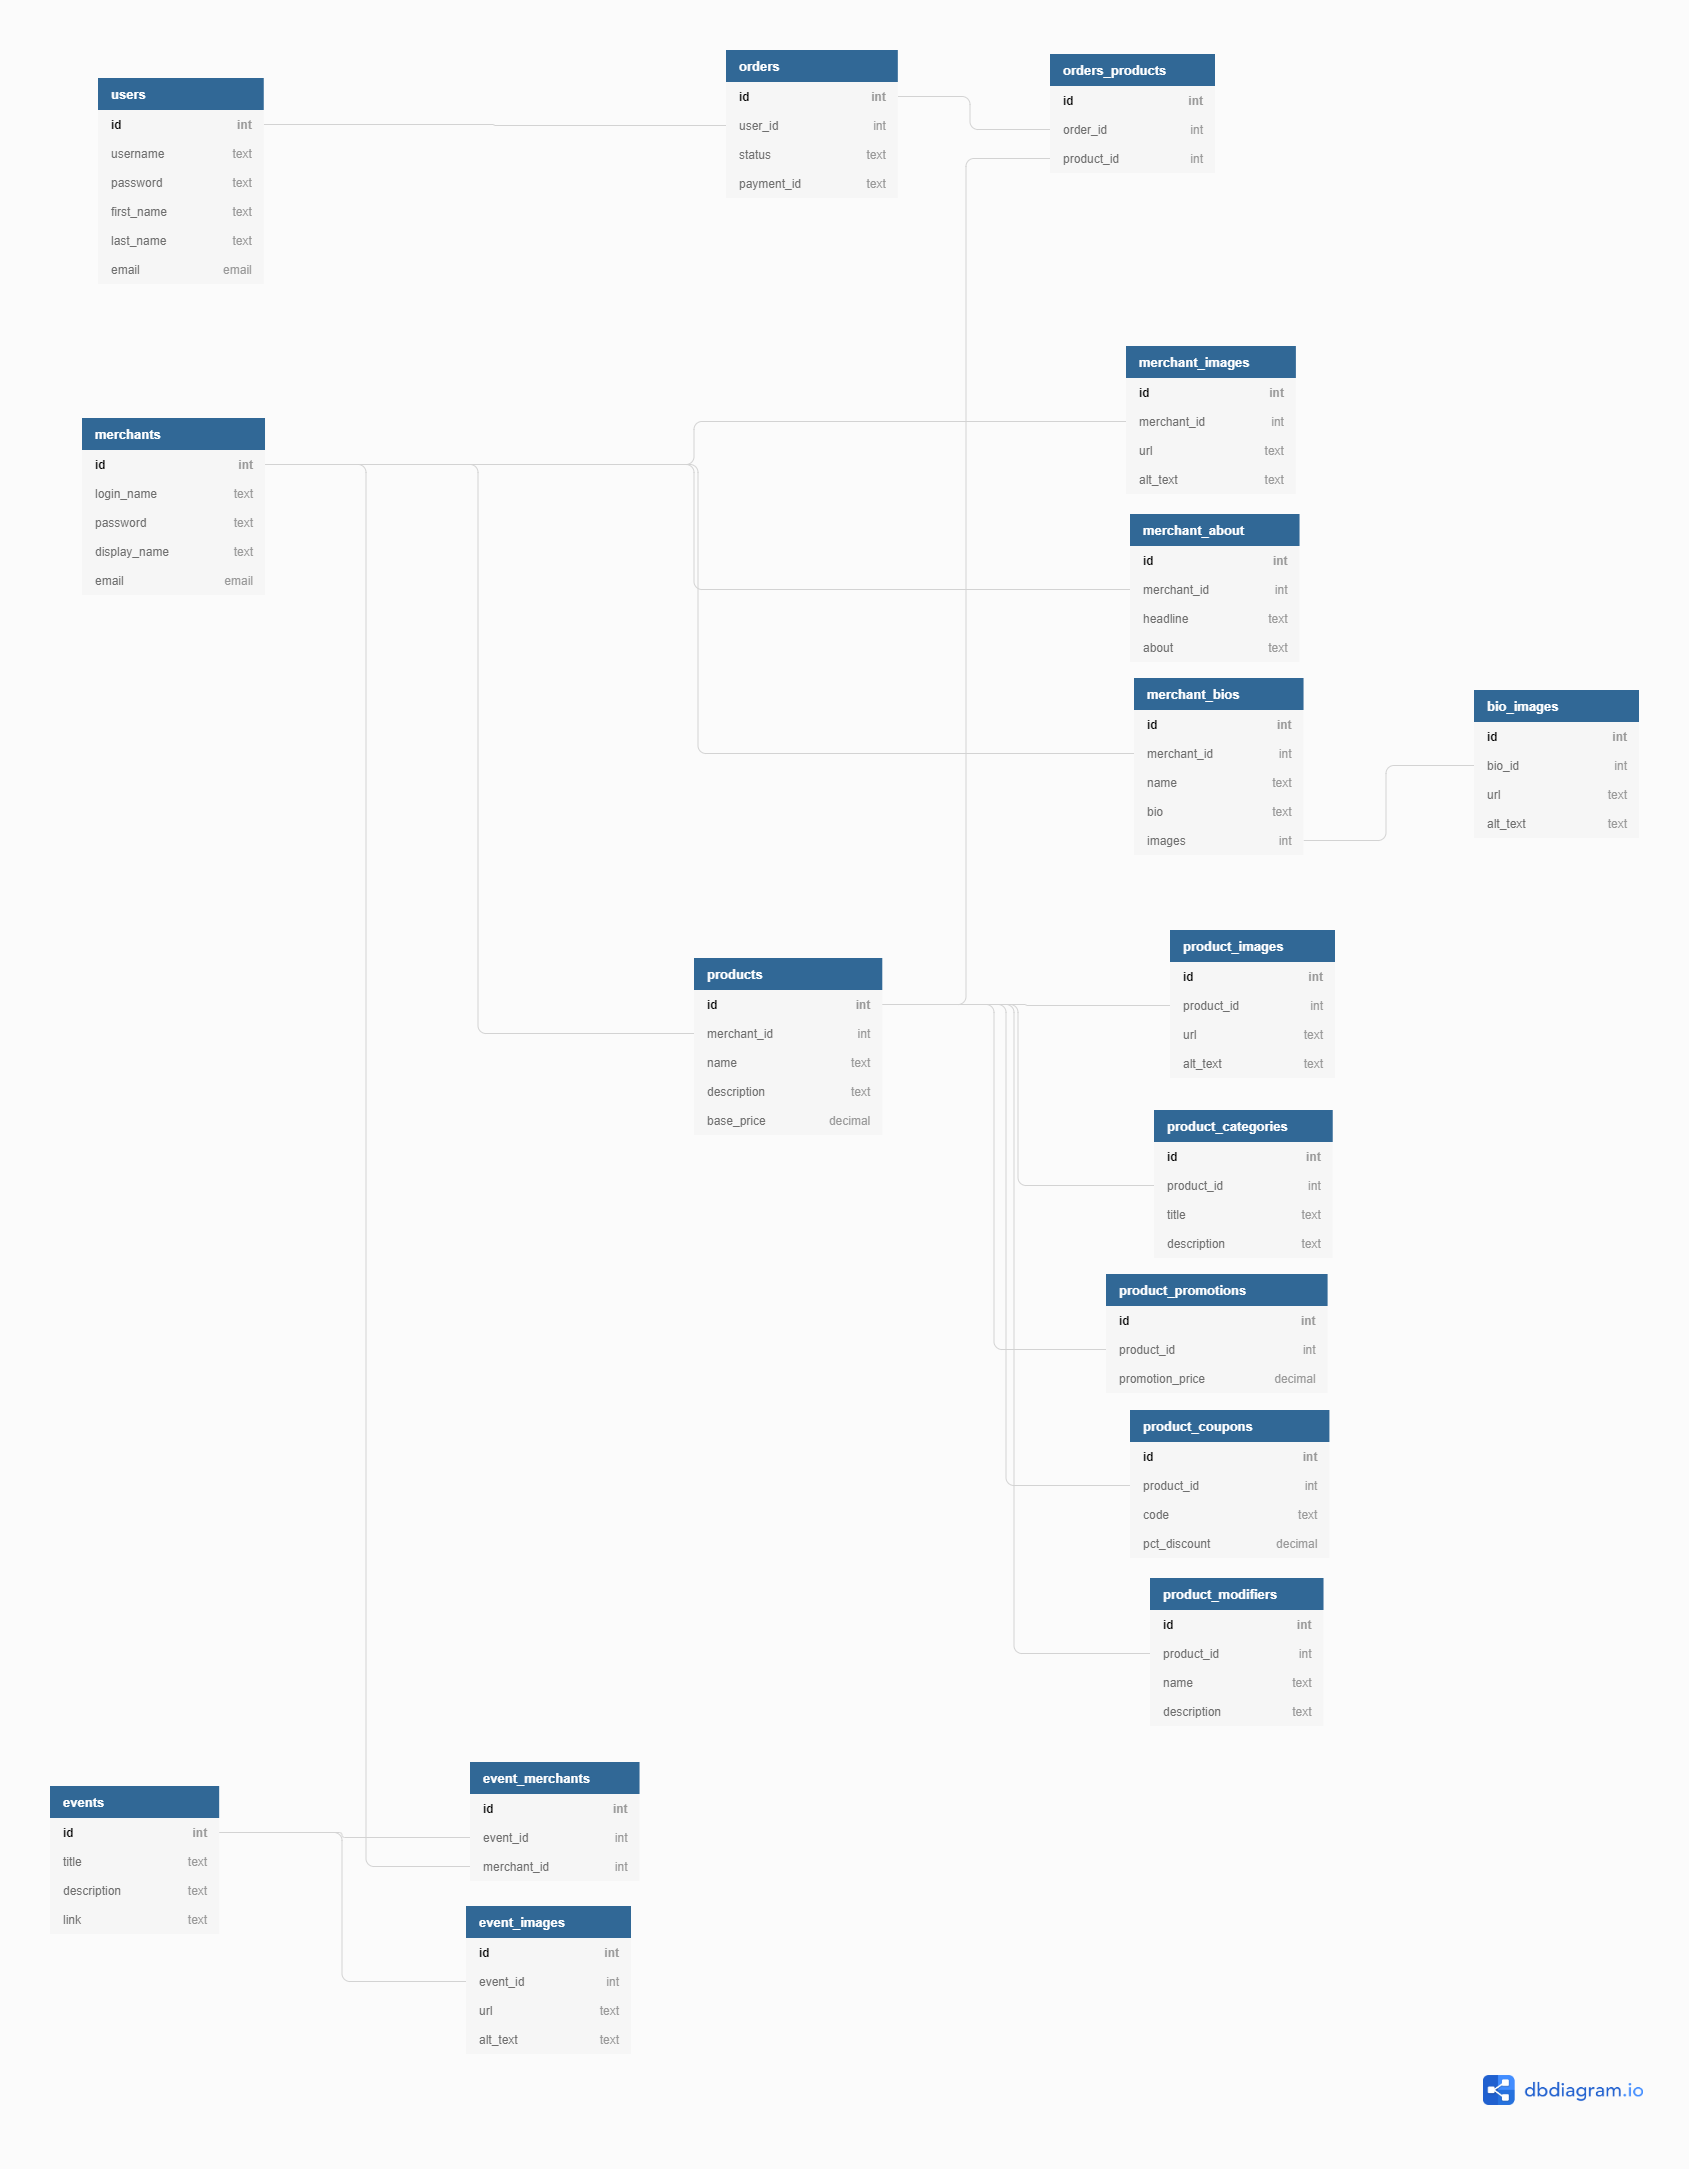
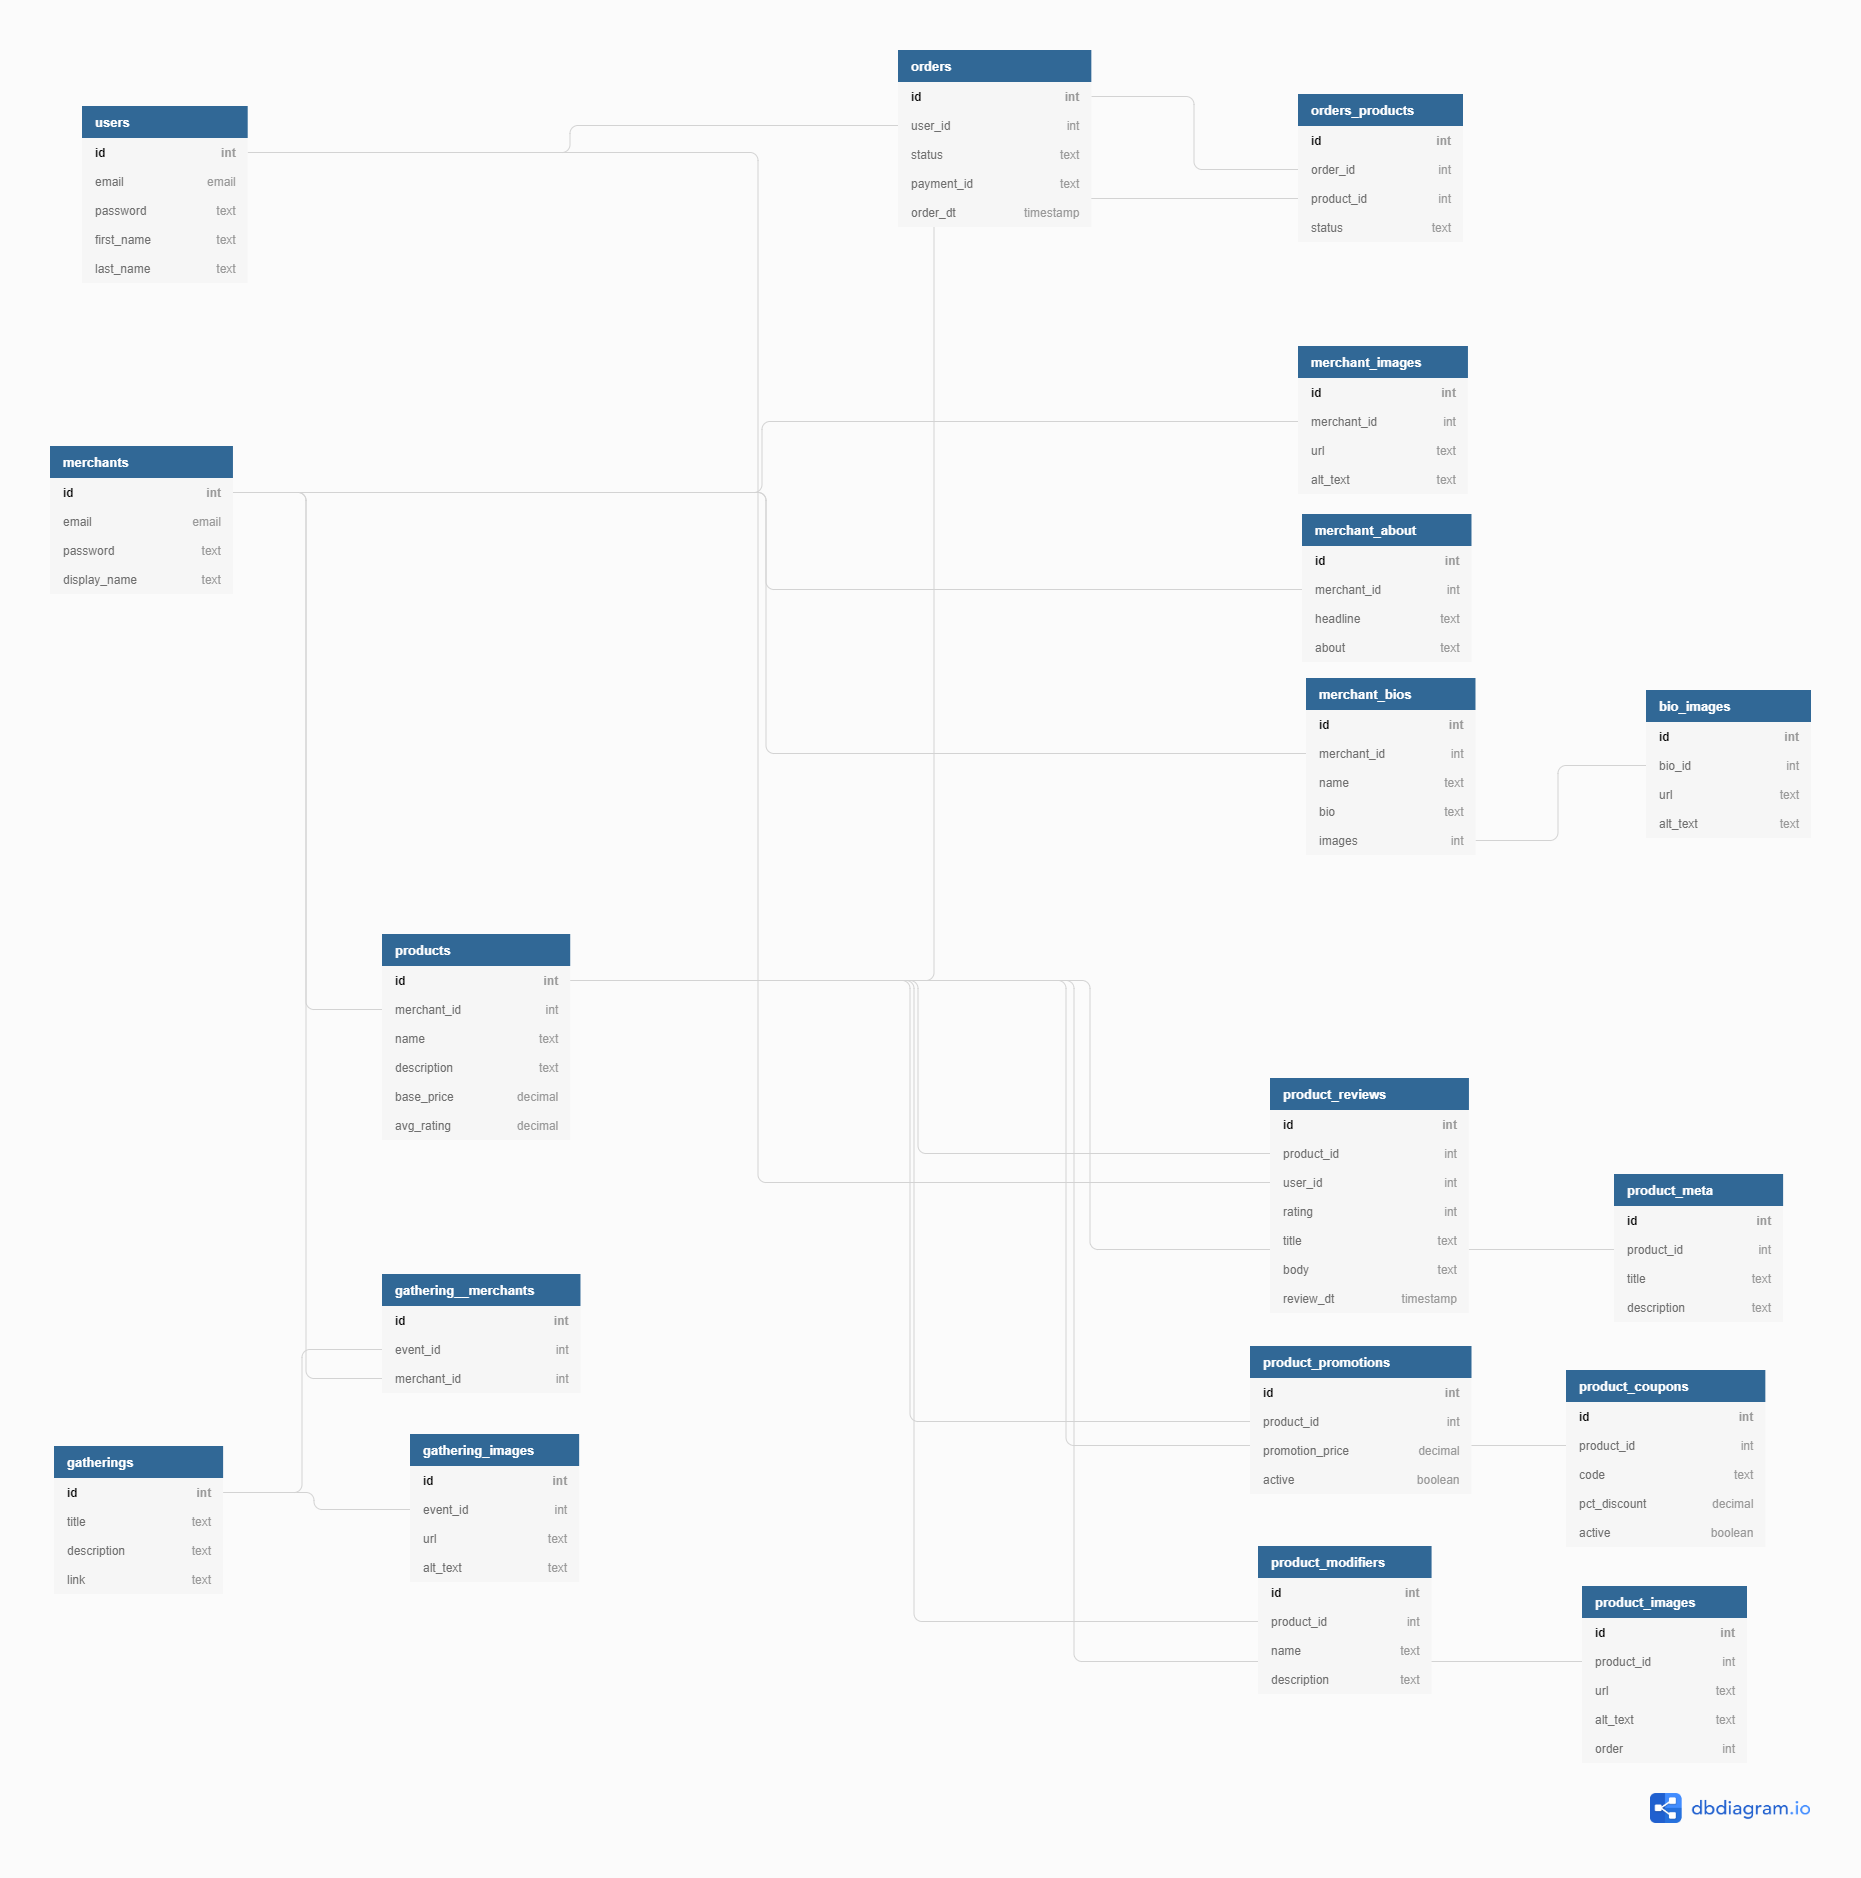
db updates

diff --git a/models/products.js b/models/products.js
@@ -1,5 +1,6 @@
 const db = require("../db");
 const partialUpdate = require("../helpers/partialUpdate");
+const { DateTime } = require('luxon');
 
 /** Product Management Class */
 
@@ -120,17 +121,20 @@ class Product {
     /** Creates a review for a product.  Returns review data. */
 
     static async create_product_review(id, user_id, data) {
+        const current_dt = DateTime.utc();
+
         const result = await db.query(
             `INSERT INTO product_reviews
-                (product_id, user_id, rating, title, body)
+                (product_id, user_id, rating, title, body, review_dt)
             VALUES ($1, $2, $3, $4, $5)
-            RETURNING id, product_id, user_id, rating, title, body`,
+            RETURNING id, product_id, user_id, rating, title, body, review_dt`,
             [
                 id,
                 user_id,
                 data.rating,
                 data.title,
-                data.body
+                data.body,
+                current_dt
             ]
         )
 

diff --git a/models/order.js b/models/order.js
@@ -1,6 +1,6 @@
 const db = require("../db");
 const partialUpdate = require("../helpers/partialUpdate");
-const { DateTime } = require('luxon')
+const { DateTime } = require('luxon');
 
 /** Order Management Class */
 

diff --git a/README.md b/README.md
@@ -1,0 +1,23 @@
+# OpusMarket - Backend
+
+## Built With
+- Node.js
+- Express.js
+- Postgres.sql
+
+
+## Database Schema
+`Note: Schema is currently under development and may change significantly throughout the course of development` 
+![DB Schema](OpusMarket.png)
+
+### Internal Database Functionalities:
+- User Account Management
+  - Users
+- Merchant Account Management
+  - Merchants
+- Product Management
+  - Products & Associated Tables
+- Order Management - Transition point between Square API & Internal System
+  - Orders & Orders_Products
+- Event Management - Transition point between Discord API & Internal System
+  - Events
